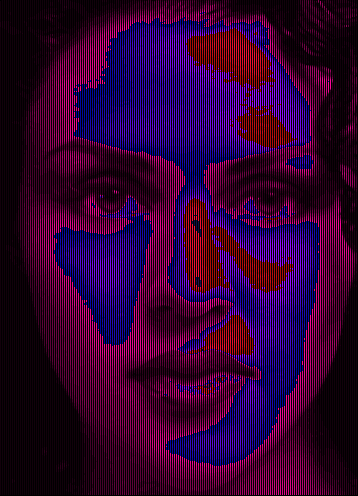
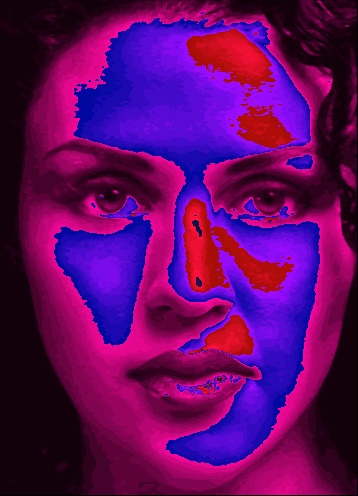
arrumando mediana

diff --git a/Q3/main.py b/Q3/main.py
@@ -1,10 +1,59 @@
 import numpy as np
 from PIL import Image
 
-im = Image.open("../imagens/Woman_eye.png").convert('RGB')
+im = Image.open("../imagens/Woman.png").convert('RGB')
 
 a = np.array(im)
 
-#print(a)
+def mediana(img):
+    h, w, c = img.shape 
+    m = 3//2
+    n = 9//2
+    i = 0
+    j = 0
+    k = -m
+    l = -n
+
+    img_mediana = np.zeros(img.shape, dtype='uint8') 
+
+    for i in range(i, h-1, 1):
+        for j in range(j, w-1, 1):
+            medianaR = []
+            medianaG = []
+            medianaB = []
+
+            for k in range(k, m+1, 1):
+                for l in range(l, n+1, 1):
+                    if (k+i < 0 or k+i > h-1) or (l+j < 0 or l+j > w-1):
+                        medianaR.append(0)
+                        medianaG.append(0)
+                        medianaB.append(0)
+                    else:
+                        medianaR.append(img[i+k, j+l, 0])
+                        medianaG.append(img[i+k, j+l, 1])
+                        medianaB.append(img[i+k, j+l, 2])
+                l = -n
+            k = -m
+
+            medianaR = np.sort(medianaR)
+            medianaG = np.sort(medianaG)
+            medianaB = np.sort(medianaB)
+
+            r = np.median(medianaR)
+            g = np.median(medianaG)
+            b = np.median(medianaB)
+
+            #print(i, j)
+            img_mediana[i, j] = [r, g, b]
+        j = 0
+    return img_mediana
+
+img_resultante = mediana(a)
+
+img_resultante_rgb = Image.fromarray(img_resultante.astype(np.uint8))
+
+img_resultante_rgb.save("../imagens/medianaRGB.png")
+
+
 
 

diff --git a/Q4/main.py b/Q4/main.py
@@ -36,8 +36,8 @@ def mediana(img):
 
     img_medianaY = np.zeros(img.shape, dtype='uint8') 
 
-    for i in range(i, h-1, m):
-        for j in range(j, w-1, n):
+    for i in range(i, h-1, 1):
+        for j in range(j, w-1, 1):
             medianaY = []
 
             for k in range(k, m+1, 1):
